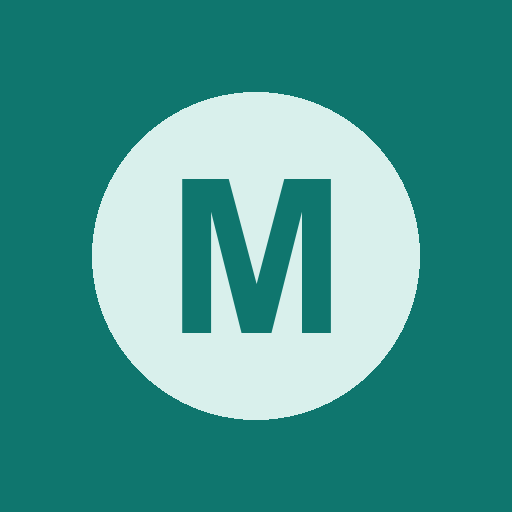
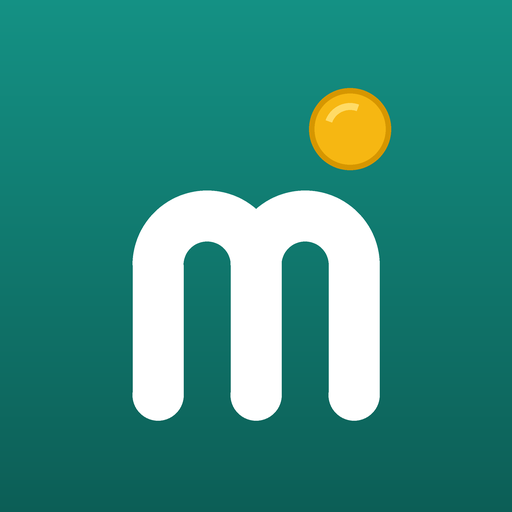
Ícono nuevo y registros por día en cualquier mes (v21)
- Movimientos: "Cantidad de registros por día" (antes "Constancia de
  registro") se ve también en meses pasados: 12 semanas hasta el fin de ese
  mes, con sus días destacados y el resumen del mes (registros, por día y
  días vacíos).
- Ícono nuevo: "m" blanca y moneda dorada sobre el verde de la app.

diff --git a/js/views/insights.js b/js/views/insights.js
@@ -127,11 +127,14 @@ export function openNetWorth() {
 // Las últimas semanas día por día: más oscuro = más movimientos registrados; los días vacíos quedan
 // marcados para ver qué se olvidó anotar. Un toque abre el día y permite registrar con esa fecha.
 const WEEKS = 12;
-export function entryCalendar() {
+// Cantidad de registros por día: las 12 semanas que terminan hoy o, si se mira un mes pasado, al cierre de ese mes.
+export function entryCalendar(ym = M.curYm()) {
   const today = M.todayStr();
+  const isCur = ym >= M.curYm();
+  const end = isCur ? today : M.monthEnd(ym);
   const dow = (d) => (new Date(d + 'T12:00:00').getDay() + 6) % 7;      // lunes = 0
-  const start = M.addDays(today, -(WEEKS - 1) * 7 - dow(today));
-  const counts = M.entryCounts(start, today);
+  const start = M.addDays(end, -(WEEKS - 1) * 7 - dow(end));
+  const counts = M.entryCounts(start, end);
   const max = Math.max(1, ...counts.values());
   const bin = (n) => (!n ? -1 : Math.min(5, Math.ceil(n / max * 6) - 1));
   const empty = [];
@@ -140,26 +143,34 @@ export function entryCalendar() {
   for (let k = 0; k < WEEKS * 7; k++) {
     const d = M.addDays(start, k);
     const pos = { gridRow: String(dow(d) + 1), gridColumn: String(Math.floor(k / 7) + 2) };
-    if (d > today) { grid.append(h('span', { class: 'cal-cell future', style: pos })); continue; }
+    if (d > end) { grid.append(h('span', { class: 'cal-cell future', style: pos })); continue; }
     const n = counts.get(d) || 0;
     if (!n) empty.push(d);
     const b = bin(n);
     grid.append(h('button', {
-      type: 'button', class: `cal-cell${b < 0 ? ' none' : ' h' + b}${d === today ? ' today' : ''}`,
+      type: 'button', class: `cal-cell${b < 0 ? ' none' : ' h' + b}${d === today ? ' today' : ''}${!isCur && d.slice(0, 7) !== ym ? ' other' : ''}`,
       style: pos,
       'aria-label': `${dLong(d)}: ${n ? `${n} movimiento${n === 1 ? '' : 's'}` : 'sin registros'}`,
       onclick: () => openDay(d),
     }));
   }
+  const dShort = (d) => new Date(d + 'T12:00:00').toLocaleDateString('es-CL', { day: 'numeric', month: 'short' });
+  // resumen del mes mirado: cuántos registros, por día y días vacíos
+  const mFrom = `${ym}-01`, mTo = isCur ? today : M.monthEnd(ym);
+  let mTotal = 0, mEmpty = 0, mN = 0;
+  for (let d = mFrom; d <= mTo; d = M.addDays(d, 1)) { const n = counts.get(d) || 0; mTotal += n; mN++; if (!n) mEmpty++; }
+  const monthName = M.monthName(ym).split(' ')[0].toLowerCase();
   const recent = empty.filter(d => d >= M.addDays(today, -14) && d < today);
+  const perDay = new Intl.NumberFormat('es-CL', { maximumFractionDigits: 1 }).format(mN ? mTotal / mN : 0);
+  const summary = `${isCur ? `En ${monthName} van` : `En ${monthName}:`} ${M.fmtInt(mTotal)} registros, ${perDay} por día${mEmpty ? ` y ${mEmpty} día${mEmpty === 1 ? '' : 's'} sin registros` : ', sin días vacíos'}.`;
   return h('section', { class: 'card viz cal-card' },
-    h('div', { class: 'card-head' }, h('div', null, h('h3', null, 'Constancia de registro'),
-      h('div', { class: 'muted small' }, `Últimas ${WEEKS} semanas · más oscuro = más movimientos`))),
+    h('div', { class: 'card-head' }, h('div', null, h('h3', null, 'Cantidad de registros por día'),
+      h('div', { class: 'muted small' }, `${WEEKS} semanas hasta el ${dShort(end)} · más oscuro = más registros`))),
     grid,
     h('div', { class: 'cal-legend muted small' }, h('span', { class: 'cal-cell none' }), ' sin registros', h('span', { class: 'cal-cell h1' }), h('span', { class: 'cal-cell h3' }), h('span', { class: 'cal-cell h5' }), ' más'),
-    h('p', { class: 'small' }, recent.length
-      ? `${recent.length} día${recent.length === 1 ? '' : 's'} sin registros en las últimas dos semanas. Toca un día para revisarlo o registrar con esa fecha.`
-      : 'Sin días vacíos en las últimas dos semanas. Toca un día para ver lo registrado.'));
+    h('p', { class: 'small' }, summary, ' ',
+      isCur && recent.length ? `${recent.length} día${recent.length === 1 ? '' : 's'} vacío${recent.length === 1 ? '' : 's'} en las últimas dos semanas. ` : '',
+      'Toca un día para ver lo registrado o registrar con esa fecha.'));
 }
 
 function openDay(d) {

diff --git a/js/views/txs.js b/js/views/txs.js
@@ -90,7 +90,7 @@ export function renderTxs(root, sub) {
   function draw() {
     const q = state.q.trim();
     const words = q.toLowerCase().split(/\s+/).filter(Boolean).map(text => ({ text, num: /^-?[\d.,]+$/.test(text) && Number.isFinite(M.parseAmount(text)) ? M.parseAmount(text) : null }));
-    fill(cal, q || state.ym !== M.curYm() ? null : entryCalendar());
+    fill(cal, q ? null : entryCalendar(state.ym));
     fill(chips, h('button', { class: 'chip more', onclick: pickAccount }, '🏦 Por cuenta'),
       ...filters.map(([k, l]) => h('button', { class: 'chip' + (state.filter === k ? ' on' : ''), 'aria-pressed': String(state.filter === k), onclick: () => { state.filter = k; draw(); } }, l)));
     fill(head, q ? h('div', { class: 'muted' }, 'Resultados en todo el historial') : [

diff --git a/sw.js b/sw.js
@@ -4,7 +4,7 @@
 // Actualizaciones atómicas: cada versión se descarga completa al instalarse (saltándose la caché del
 // CDN con ?v=VERSION) y se sirve solo desde su propia caché. Nunca se mezclan archivos de dos versiones.
 // Sube VERSION cada vez que publiques cambios.
-const VERSION = 'moni-v20';
+const VERSION = 'moni-v21';
 const SHELL = [
   './', './index.html', './manifest.webmanifest', './css/app.css',
   './js/main.js', './js/db.js', './js/model.js', './js/fx.js', './js/prices.js', './js/ui.js', './js/charts.js',

diff --git a/css/app.css b/css/app.css
@@ -476,3 +476,5 @@ select:disabled { opacity: .65; }
 .sug-row { flex-wrap: wrap; row-gap: 6px; }
 .sug-row .main { flex-basis: 100%; }
 .sug-row .row-actions { margin-left: auto; }
+/* calendario de registros mirando un mes pasado: los días de otros meses, atenuados */
+.cal-cell.other { opacity: .35; }
